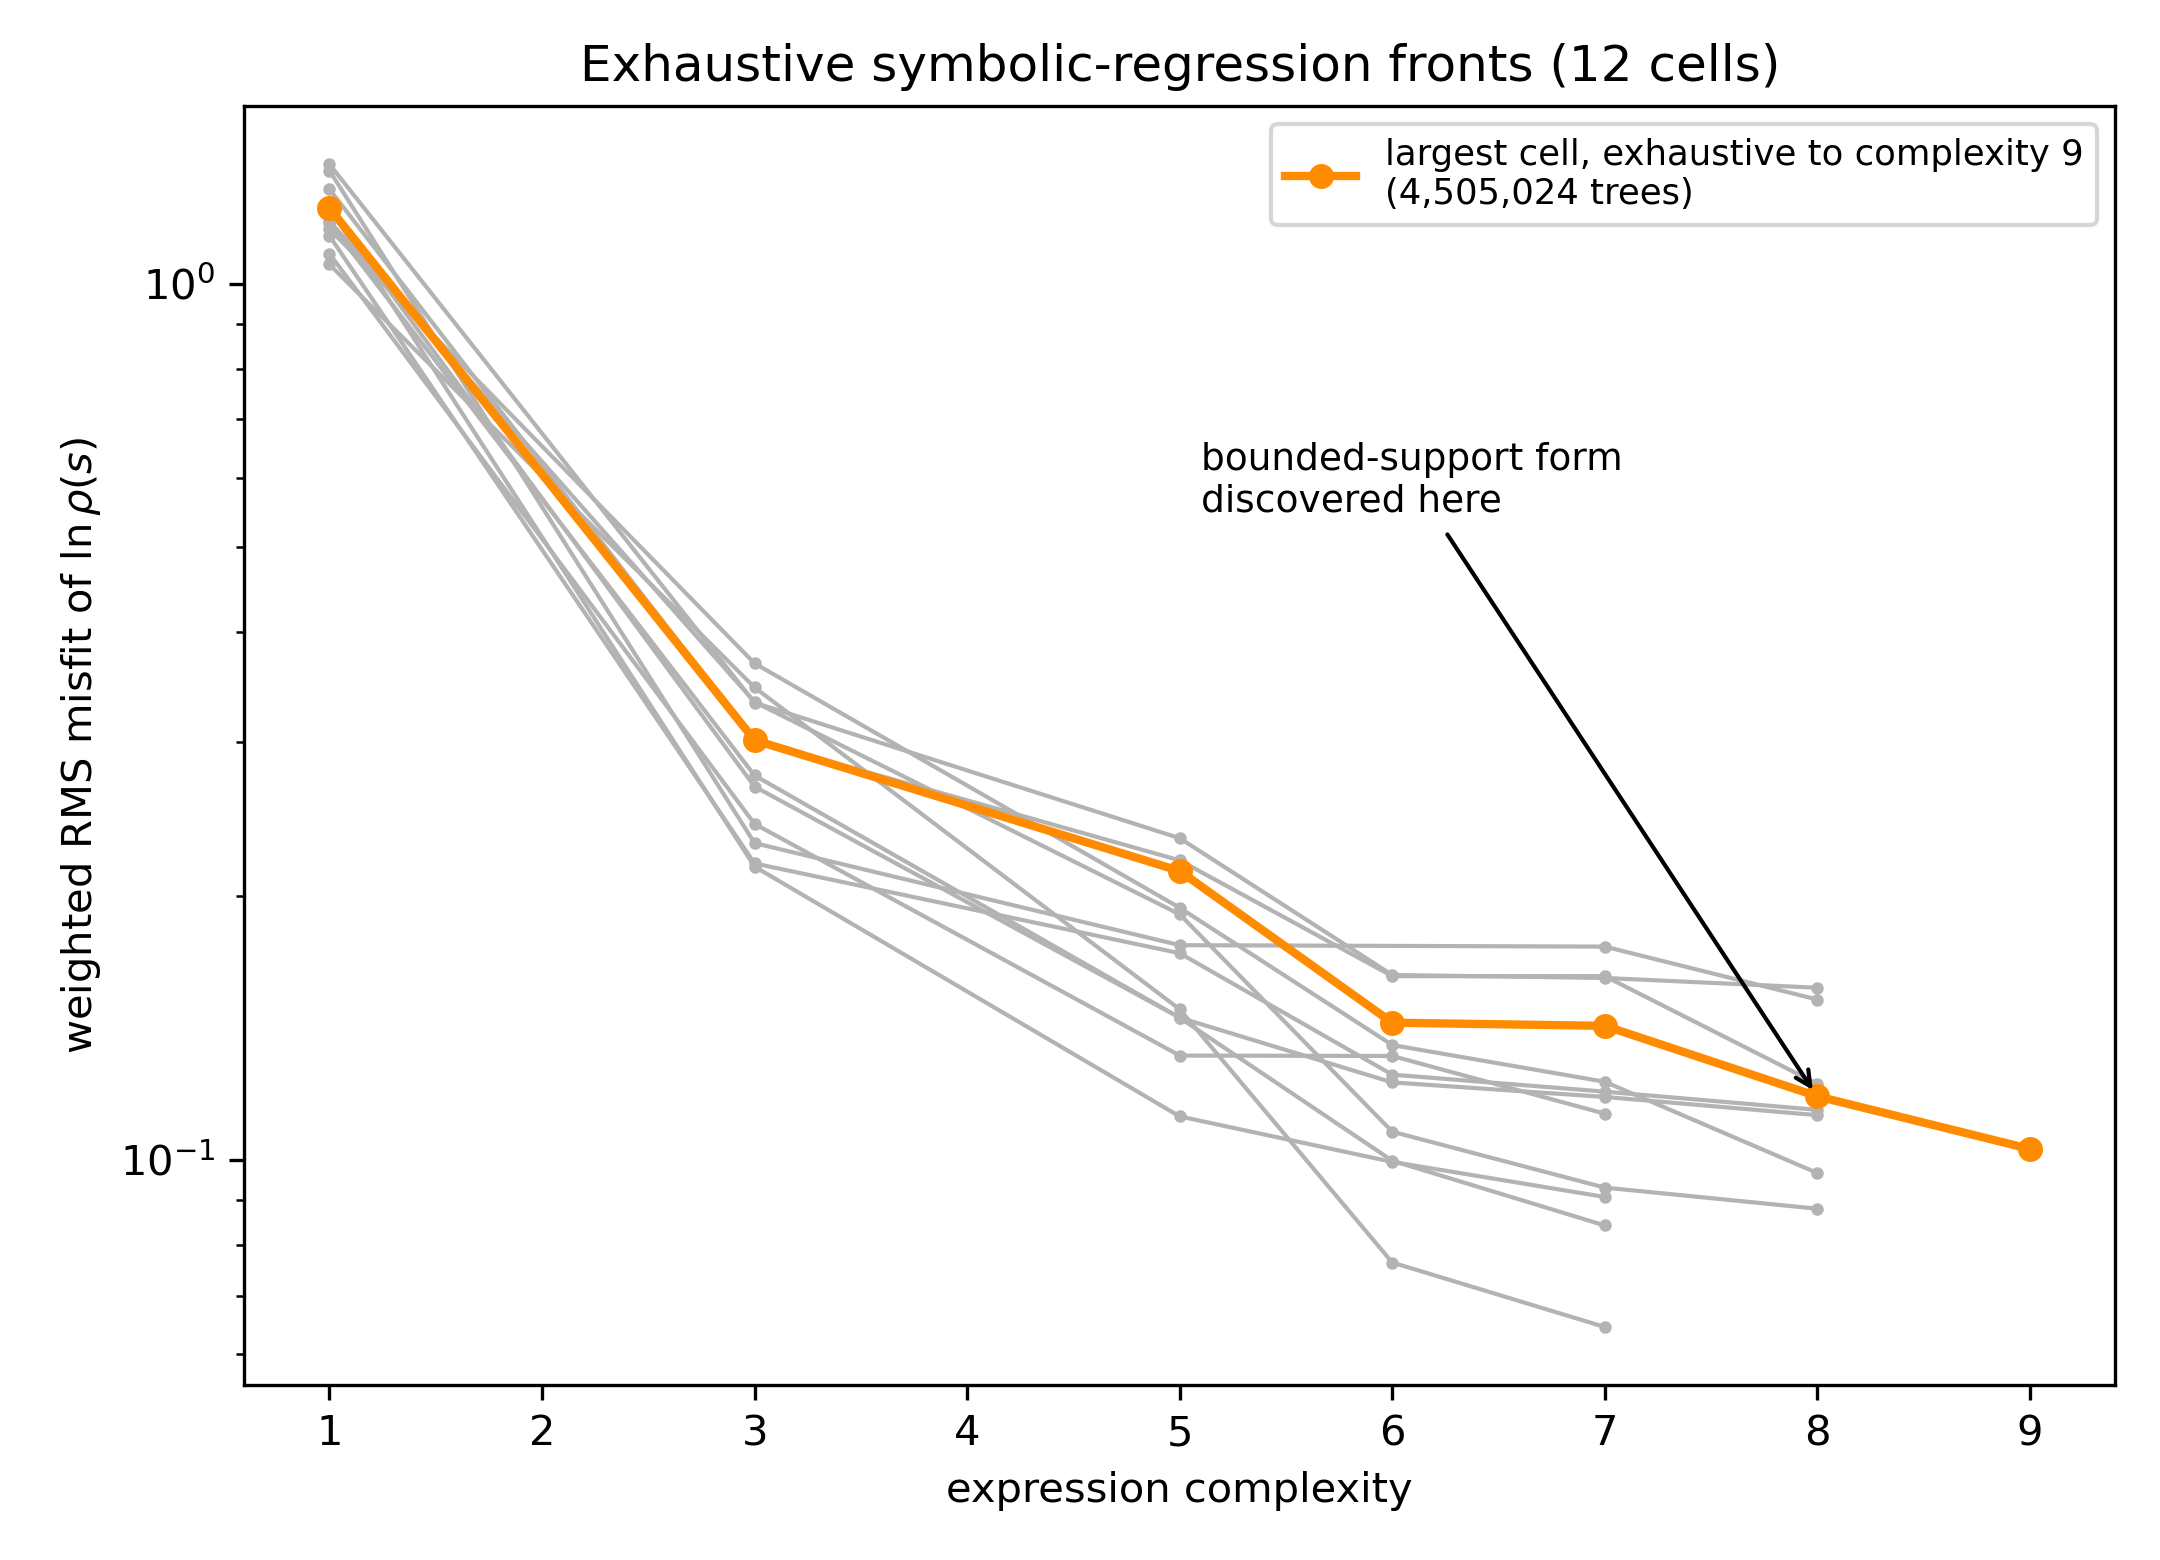
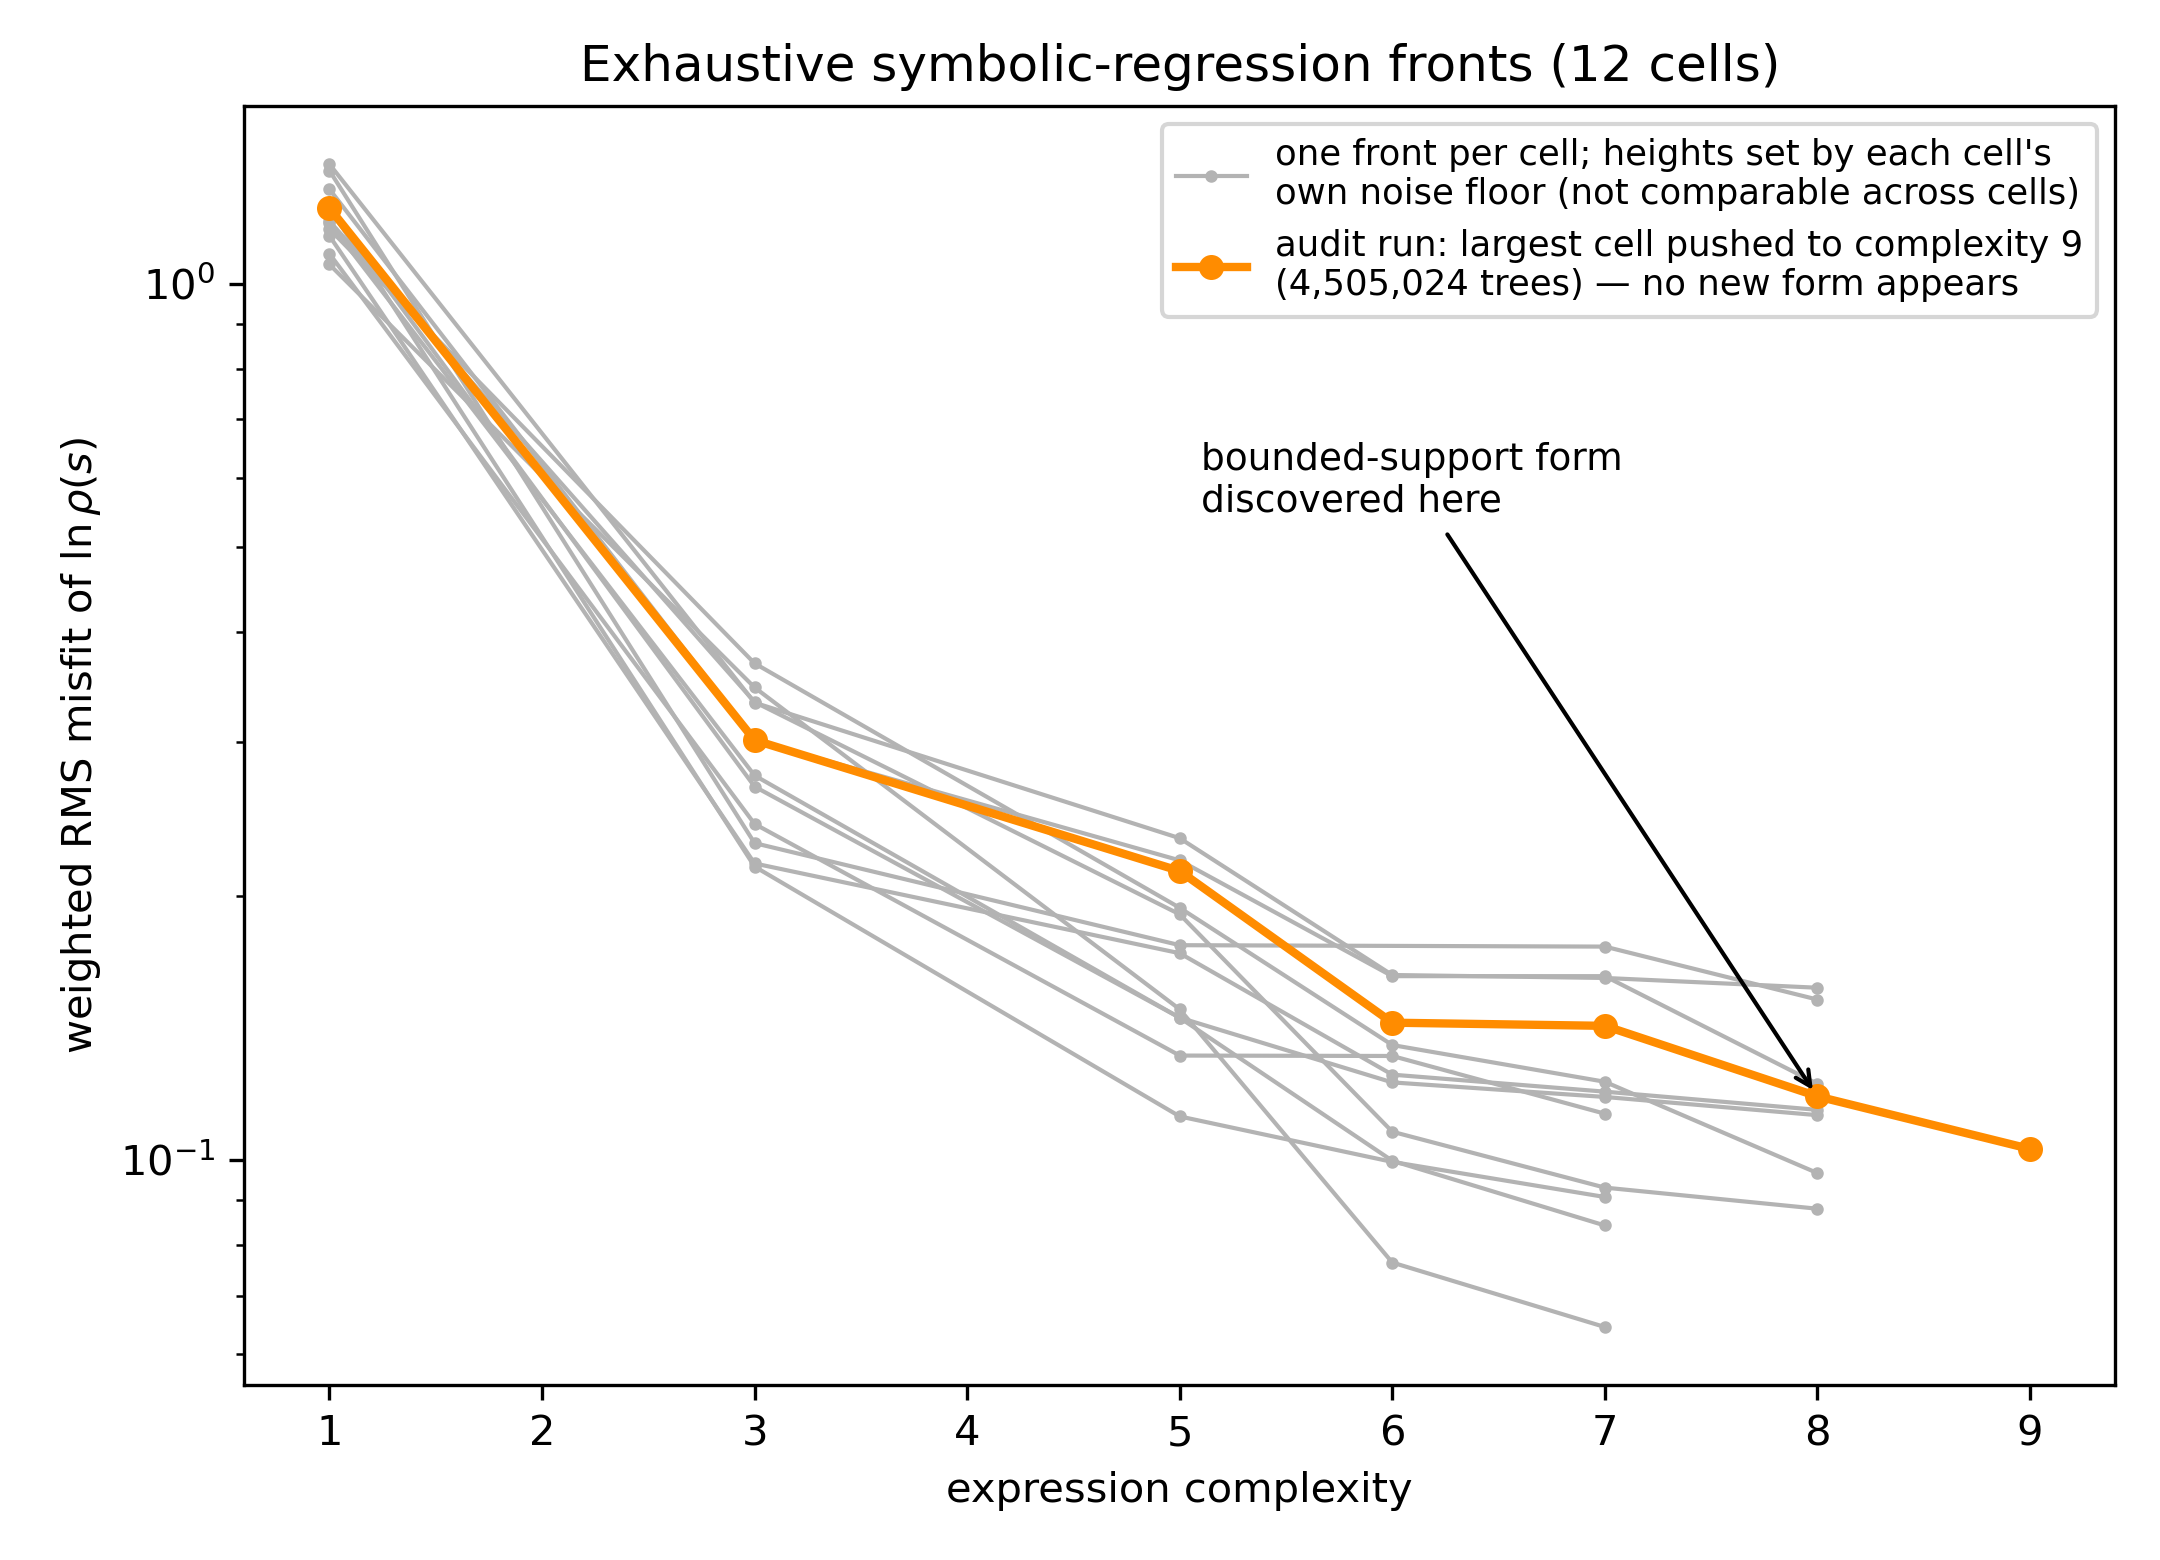
Fig 3: label grey fronts as per-cell (heights not cross-comparable), orange as audit run

Changed region(s): [[0.5273, 0.0615, 0.9616, 0.2154]]

diff --git a/README.md b/README.md
@@ -164,11 +164,16 @@ ceiling at ξ → 1. This is the strongest visual statement of the result:
 
 **Figure 3 — the discovery process itself, so it can be audited.** Each grey
 line is one cell's exact Pareto front: the best achievable misfit at each
-expression complexity. Orange is the largest cell, pushed one complexity
-unit further (4.5 million trees). The fronts drop steeply until complexity
-8 — where the ceiling law enters (arrow) — and gain little beyond. Because
-the enumeration is exhaustive, "the TPL never made a front" is a statement
-about this grammar and this data, not about search luck.
+expression complexity. Heights are **not comparable between curves** — each
+cell's misfit is weighted by its own Poisson error bars, so a curve's level
+reflects that cell's event count and noise floor, not the quality of its
+formula; the meaningful reading is where each front stops dropping. Orange
+is the audit run, not a winner: the largest cell re-searched with the budget
+pushed one complexity unit further (4.5 million trees, 7× the standard
+budget) to certify that no new form appears past the ceiling-law knee at
+complexity 8. Because the enumeration is exhaustive, "the TPL never made a
+front" is a statement about this grammar and this data, not about search
+luck.
 
 ![Falsifiability control](figures/fig04_falsifiability.png)
 
